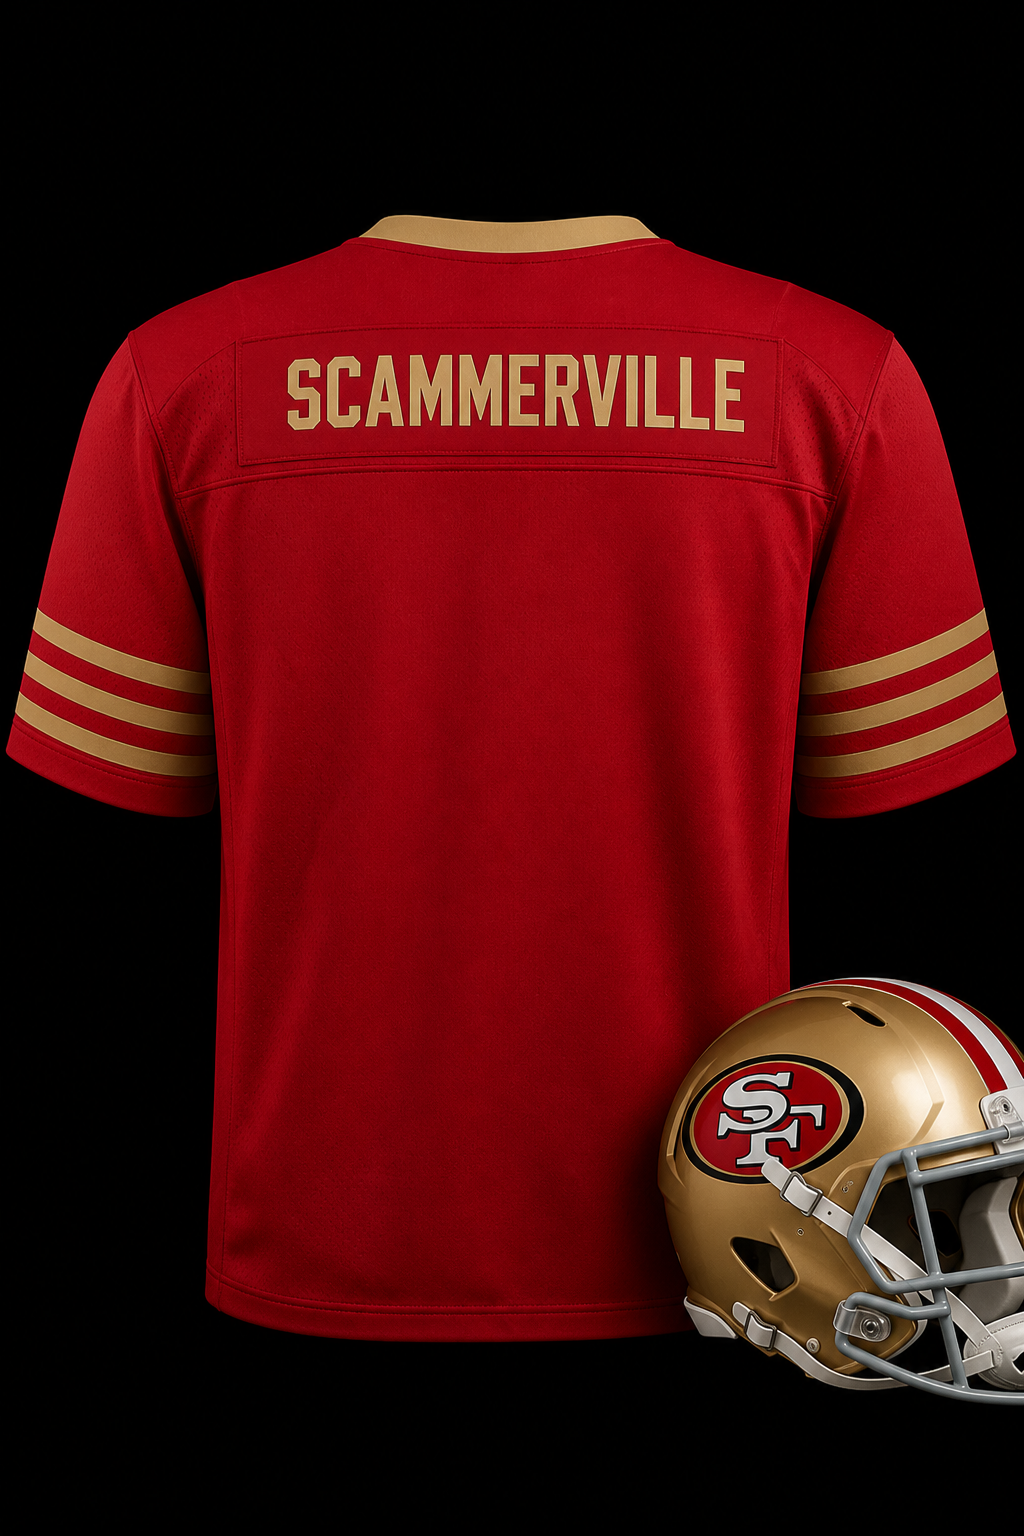
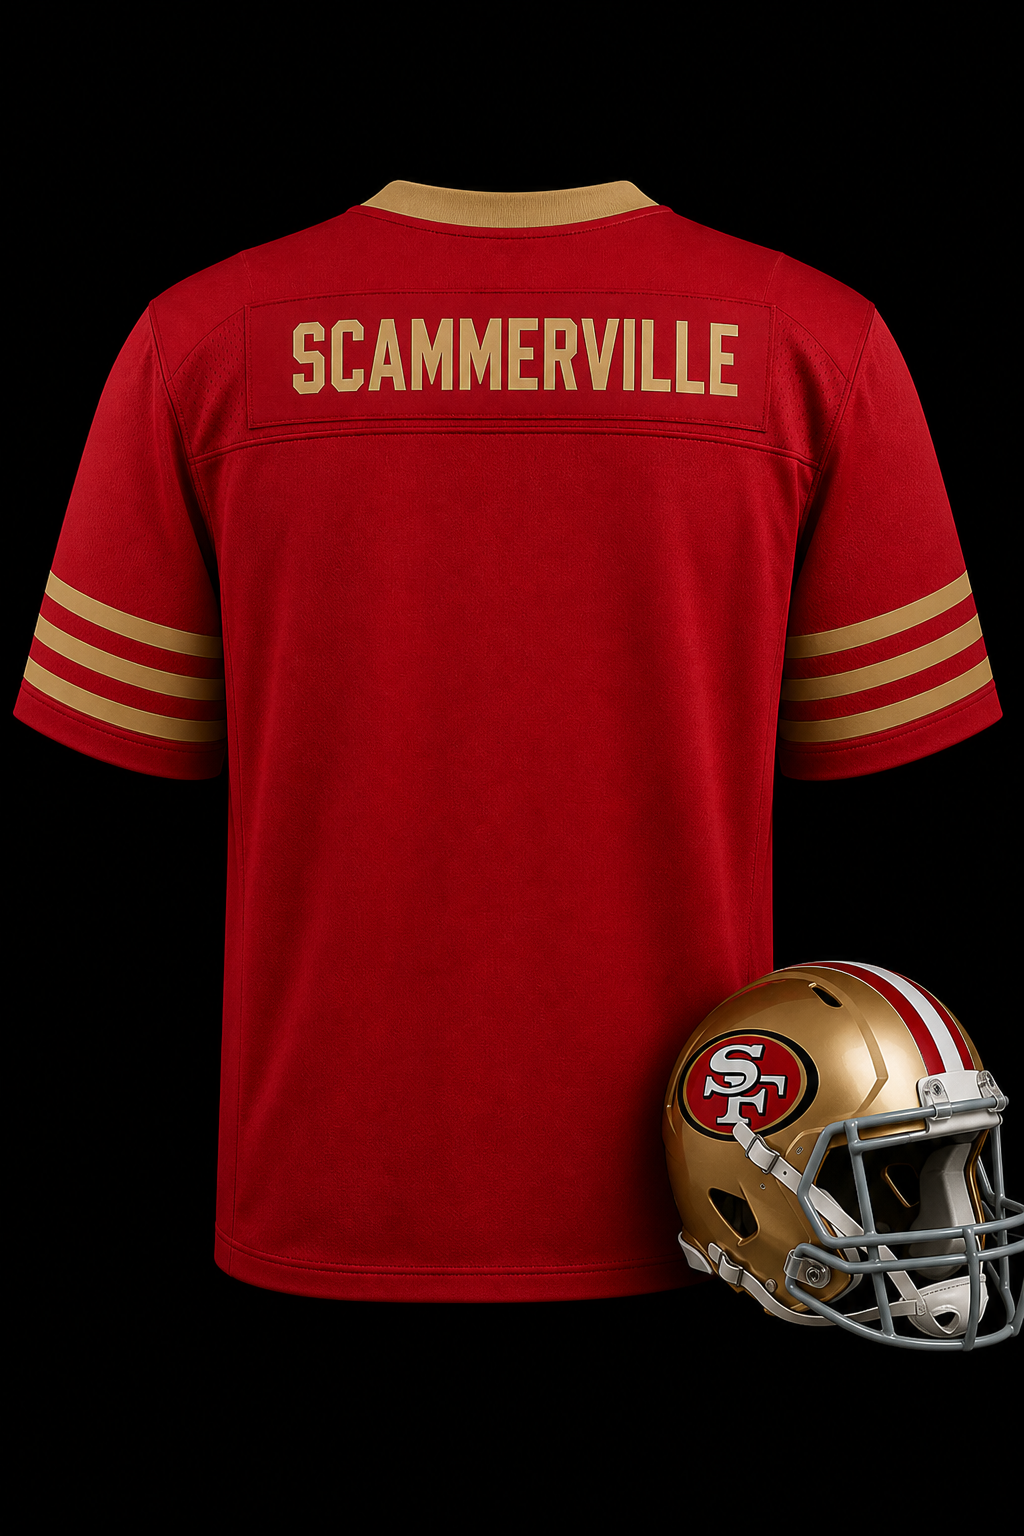
s3.0.33: NFL photo jersey layout, collar, and helmet visibility

Changed region(s): [[0.0, 0.0938, 1.0, 0.9375], [0.5312, 0.75, 0.5625, 0.7812]]

diff --git a/display.css b/display.css
@@ -985,8 +985,8 @@ body.display.display-booting .display-canvas:not(.has-background-layer){
 }
 /* NFL photo kits (yoke back + side helmet in PNG): no hanger */
 .display-canvas.soccer-jersey-template.jersey-sport-nfl.jersey-photo-back .display-background{
-  background-size:88% auto!important;
-  background-position:center 42%!important;
+  background-size:82% auto!important;
+  background-position:center 36%!important;
   background-repeat:no-repeat!important;
   background-color:#000!important;
 }
@@ -997,8 +997,8 @@ body.display.display-booting .display-canvas:not(.has-background-layer){
   display:none!important;
 }
 .display-canvas.soccer-jersey-template.jersey-sport-nfl.jersey-photo-back #displayMain.soccer-jersey-name{
-  top:22%!important;
-  height:8%!important;
+  top:18%!important;
+  height:9%!important;
   left:22%!important;
   right:22%!important;
   margin:0 auto!important;
@@ -1013,8 +1013,8 @@ body.display.display-booting .display-canvas:not(.has-background-layer){
   color:var(--jersey-secondary,#fff)!important;
 }
 .display-canvas.soccer-jersey-template.jersey-sport-nfl.jersey-photo-back #displaySub.soccer-jersey-number{
-  top:36%!important;
-  height:32%!important;
+  top:40%!important;
+  height:28%!important;
   left:22%!important;
   right:22%!important;
   margin:0 auto!important;
@@ -1022,8 +1022,8 @@ body.display.display-booting .display-canvas:not(.has-background-layer){
   text-align:center!important;
   justify-items:center!important;
   justify-content:center!important;
-  align-content:end!important;
-  place-items:end center!important;
+  align-content:center!important;
+  place-items:center!important;
   font-family:Impact,"Arial Black","Helvetica Neue Condensed","Arial Narrow",sans-serif!important;
   font-style:normal!important;
   font-weight:900!important;
@@ -1036,38 +1036,38 @@ body.display.display-booting .display-canvas:not(.has-background-layer){
 }
 .display-canvas[data-screen-format-id="led-96x48"].soccer-jersey-template.jersey-sport-nfl.jersey-photo-back #displayMain.soccer-jersey-name,
 .display-canvas[data-screen-format-id="p125-96x48"].soccer-jersey-template.jersey-sport-nfl.jersey-photo-back #displayMain.soccer-jersey-name{
-  top:21%!important;
+  top:17%!important;
   left:24%!important;
   right:24%!important;
 }
 .display-canvas[data-screen-format-id="led-96x48"].soccer-jersey-template.jersey-sport-nfl.jersey-photo-back #displaySub.soccer-jersey-number,
 .display-canvas[data-screen-format-id="p125-96x48"].soccer-jersey-template.jersey-sport-nfl.jersey-photo-back #displaySub.soccer-jersey-number{
-  top:35%!important;
+  top:39%!important;
   left:24%!important;
   right:24%!important;
 }
 .display-canvas[data-screen-format-id="led-64x48"].soccer-jersey-template.jersey-sport-nfl.jersey-photo-back #displayMain.soccer-jersey-name,
 .display-canvas[data-screen-format-id="p125-64x48"].soccer-jersey-template.jersey-sport-nfl.jersey-photo-back #displayMain.soccer-jersey-name{
-  top:21%!important;
+  top:17%!important;
   left:22%!important;
   right:22%!important;
 }
 .display-canvas[data-screen-format-id="led-64x48"].soccer-jersey-template.jersey-sport-nfl.jersey-photo-back #displaySub.soccer-jersey-number,
 .display-canvas[data-screen-format-id="p125-64x48"].soccer-jersey-template.jersey-sport-nfl.jersey-photo-back #displaySub.soccer-jersey-number{
-  top:35%!important;
+  top:39%!important;
   left:22%!important;
   right:22%!important;
 }
 .display-canvas[data-screen-format-id="led-64x32"].soccer-jersey-template.jersey-sport-nfl.jersey-photo-back #displayMain.soccer-jersey-name,
 .display-canvas[data-screen-format-id="p125-64x32"].soccer-jersey-template.jersey-sport-nfl.jersey-photo-back #displayMain.soccer-jersey-name{
-  top:20%!important;
+  top:16%!important;
   left:20%!important;
   right:20%!important;
 }
 .display-canvas[data-screen-format-id="led-64x32"].soccer-jersey-template.jersey-sport-nfl.jersey-photo-back #displaySub.soccer-jersey-number,
 .display-canvas[data-screen-format-id="p125-64x32"].soccer-jersey-template.jersey-sport-nfl.jersey-photo-back #displaySub.soccer-jersey-number{
-  top:34%!important;
-  height:34%!important;
+  top:38%!important;
+  height:30%!important;
   left:20%!important;
   right:20%!important;
 }

diff --git a/display.html b/display.html
@@ -7,7 +7,7 @@
   <meta http-equiv="Cache-Control" content="no-cache, no-store, must-revalidate"/>
   <meta http-equiv="Pragma" content="no-cache"/>
   <title>FLOQR ShoutOut Display</title>
-  <link rel="stylesheet" href="./display.css?v=s3.0.32"/>
+  <link rel="stylesheet" href="./display.css?v=s3.0.33"/>
 </head>
 <body class="display display-booting display-board-primary">
   <main id="displayCanvas" class="display-canvas" data-display-board="primary">
@@ -43,7 +43,7 @@
 <script src="./national-teams-data.js?v=s3.0.20"></script>
 <script src="./jersey-catalog.js?v=s3.0.32"></script>
 <script src="./floqr-identity.js?v=29.09.22"></script>
-<script src="./display-app.js?v=s3.0.32"></script>
+<script src="./display-app.js?v=s3.0.33"></script>
 <script src="./notification-center.js?v=29.09.22"></script>
 <script src="./suprstr-webrtc.js?v=29.09.73"></script>
 <script src="./display-suprstr.js?v=29.09.73"></script>

diff --git a/display2.html b/display2.html
@@ -8,7 +8,7 @@
   <meta http-equiv="Pragma" content="no-cache"/>
   <title>FLOQR ShoutOut Display 2</title>
   <meta name="floqr-display-board" content="secondary"/>
-  <link rel="stylesheet" href="./display.css?v=s3.0.32"/>
+  <link rel="stylesheet" href="./display.css?v=s3.0.33"/>
 </head>
 <body class="display display-booting display-board-secondary">
   <main id="displayCanvas" class="display-canvas" data-display-board="secondary">
@@ -43,7 +43,7 @@
 <script src="./national-teams-data.js?v=s3.0.20"></script>
 <script src="./jersey-catalog.js?v=s3.0.32"></script>
 <script src="./floqr-identity.js?v=29.09.22"></script>
-<script src="./display-app.js?v=s3.0.32"></script>
+<script src="./display-app.js?v=s3.0.33"></script>
 <script src="./notification-center.js?v=29.09.22"></script>
 <script src="./suprstr-webrtc.js?v=29.09.73"></script>
 <script src="./display-suprstr.js?v=29.09.73"></script>

diff --git a/jersey-preview-all.html b/jersey-preview-all.html
@@ -249,8 +249,8 @@
     .sport-nba .name { transform: none; top: 24%; font-size: clamp(8px, 3.4vw, 12px); letter-spacing: .16em; }
     .sport-nba .num { top: 36%; font-style: normal; font-size: clamp(32px, 16vw, 52px); }
     .sport-nfl .team { display: none; }
-    .sport-nfl .name { top: 22%; height: 10%; letter-spacing: .18em; font-size: clamp(8px, 3.2vw, 11px); }
-    .sport-nfl .num { top: 34%; font-style: normal; font-size: clamp(34px, 17vw, 54px); text-shadow: 0 3px 0 #000, 0 0 12px rgba(0,0,0,.5); }
+    .sport-nfl .name { top: 18%; height: 9%; letter-spacing: .14em; font-size: clamp(9px, 3.5vw, 12px); }
+    .sport-nfl .num { top: 40%; font-style: normal; font-size: clamp(30px, 15vw, 48px); text-shadow: 0 3px 0 #000, 0 0 12px rgba(0,0,0,.5); }
     .meta {
       padding: 8px 10px 10px;
       border-top: 1px solid var(--line);

diff --git a/display-app.js b/display-app.js
@@ -1292,8 +1292,8 @@
         baseNumber = Math.min(baseNumber * 0.68, 42);
         baseTeam = Math.min(baseTeam * 0.65, 5.5);
       } else if (sport === "nfl" && usePhotoBack) {
-        baseName = Math.min(baseName * 0.5, 10.5);
-        baseNumber = Math.min(baseNumber * 0.78, 58);
+        baseName = Math.min(baseName * 0.55, 11.5);
+        baseNumber = Math.min(baseNumber * 0.72, 48);
         baseTeam = 0;
       } else if (sport === "nba") {
         baseName = Math.min(baseName, 12.5);

diff --git a/floqr-nav.js b/floqr-nav.js
@@ -5,7 +5,7 @@
   /* CURRENT PACKAGE. Bump this whenever README CURRENT PACKAGE bumps.
      Generated in-app links (Venue Links, FloqAi, Back) stamp this at render time.
      Never copy the page's ?v= — old bookmarks would keep minting old Club Admin URLs. */
-  const APP_V = "s3.0.32";
+  const APP_V = "s3.0.33";
 
   function navT(key, fallback) {
     try {

diff --git a/README.md b/README.md
@@ -1,5 +1,6 @@
-# CURRENT PACKAGE: FLOQR ShoutOut s3.0.32 (stable)
+# CURRENT PACKAGE: FLOQR ShoutOut s3.0.33 (stable)
 
+- s3.0.33: NFL photo-back layout (name midway yoke/number, larger patron name, visible collar, helmet raised); regenerated 49ers + ScammerVille PNGs; `nfl-jersey-photo-backs.mdc` prompt rule.
 - s3.0.32: Service members panel UX (profile guide in ? help, single submit, bottom confirmation); NFL photo-back jerseys (49ers + ScammerVille); Club Admin approval copy.
 - s3.0.31: Services & Service Members help is patron-facing (no IsPatron flags); panel chrome + help localized in all 11 languages.
 - s3.0.30: Service role request uses specialty dropdown + searchable multi-club picker; club admin indexed association queries.
